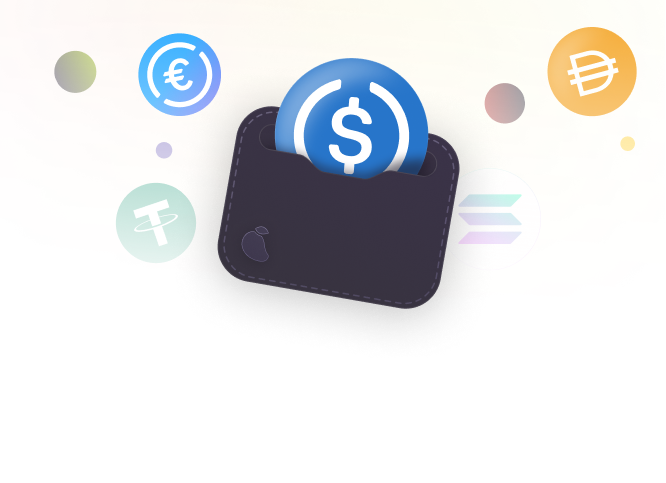
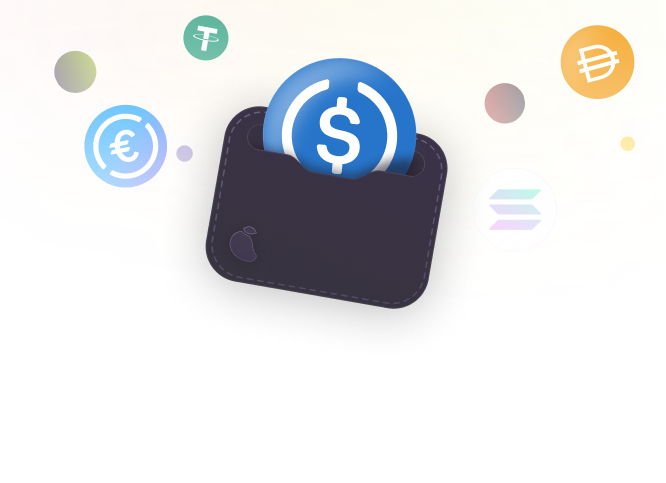
saturate or not saturate? tell me shakespeare

Changed region(s): [[0.1201, 0.0311, 0.8108, 0.6522], [0.8108, 0.0311, 0.961, 0.2484]]

diff --git a/src/components/DesktopFeatureGrid.tsx b/src/components/DesktopFeatureGrid.tsx
@@ -5,30 +5,30 @@ import GridItemPaint from "@/components/cards/GridItemPaint";
 
 const gridItemOne: any = [
     {
-      name: "You control the mixer.",
+      name: "Easy as analog.",
       description:
-        "Cross-collateral means fungability for your digital money. Mango turns your capital into tools for precision.",
+        "A simple, intuititive, performance interface for trading decentralized open markets.",
     },
   ]; 
   const gridItemTwo: any = [
     {
       name: "Open, transparent, permissionless.",
       description:
-        "Access up 5x margined spot markets and ability the to trade with 20x leverage in permissionless derivitives markets, all on-chain.",
+        "Access margined spot markets and the ability to trade with up to 20x leverage in permissionless derivitives markets, all on-chain.",
     },
   ]; 
   const gridItemThree: any = [
     {
       name: "All cool in the lending pool.",
       description:
-        "Variable interests come from pooled capitaled from user deposits. With power comes great responsibility.",
+        "Open accounts earn variable yield from pooled capital. Earn by easily participating in decentralized lending markets.",
     },
   ]; 
   const gridItemFour: any = [
     {
       name: "Paint your own trades.",
       description:
-        "Mango is a power tool for the power user. Use it how you wish, every trade is different, mango is tailored for you.",
+        "Cross-collateral means fungability for your digital money. Mango turns your capital into tools for precision.",
     },
   ]; 
 

diff --git a/src/components/PhoneSectionOne.tsx b/src/components/PhoneSectionOne.tsx
@@ -24,7 +24,7 @@ const PhoneSectionOne = () => {
         <div className="w-1/2 h-[4px] bg-gradient-to-r from-th-fgd-2 transform -translate-x-[32px] my-3"></div>
 
         <h2 className="font-display text-6xl tracking-tight mb-6 text-left text-th-fgd-5 leading-tight">
-          Pay, request, and discover. <br  /><GradientText>Crypto payements for<br  /> the digital nomad.</GradientText>
+          Pay, request, &amp; discover. <br  /><GradientText>Crypto payements for<br  /> the digital nomad.</GradientText>
         </h2>
         <div className="w-1/2 h-[4px] bg-gradient-to-r from-th-fgd-2 transform -translate-x-[32px] mb-8"></div>
 

diff --git a/src/components/DesktopHero.tsx b/src/components/DesktopHero.tsx
@@ -23,7 +23,7 @@ const DesktopHero = () => {
         <div className="w-1/2 h-[4px] bg-gradient-to-r from-th-fgd-2 transform -translate-x-[32px] mb-3"></div>
 
         <h2 className="font-display text-6xl tracking-tight mb-6 text-left text-th-fgd-5 leading-tight">
-         We&apos;re just built different.<br /> <GradientText>Trade, manage, earn <br />all from one hub.</GradientText>
+        Be merry, we&apos;re back.<br /> <GradientText>Trade, manage, earn <br />all from one hub.</GradientText>
         </h2>
         <div className="w-1/2 h-[4px] bg-gradient-to-r from-th-fgd-2 transform -translate-x-[32px] mb-8"></div>
 

diff --git a/src/pages/index.tsx b/src/pages/index.tsx
@@ -12,7 +12,7 @@ import DesktopHero from '@/components/DesktopHero';
 const Index = () => {
   return (
     <div
-      className={"debug-screens w-screen overflow-hidden bg-gradient-to-b from-th-bkg-1 to-th-bkg-2"}
+      className={"debug-screens w-screen overflow-hidden bg-gradient-to-b from-th-bkg-1 to-th-bkg-2 saturate-150"}
     >
       <HomeHero />
       <PhoneSectionOne />

diff --git a/src/components/cards/GridItemLending.tsx b/src/components/cards/GridItemLending.tsx
@@ -21,6 +21,7 @@ function GridItemLending(props: any) {
                 <dd className="text-th-fgd-3 text-md">
                   {props.description}
                 </dd>
+                
             </dl>
           </div>
         </div>
